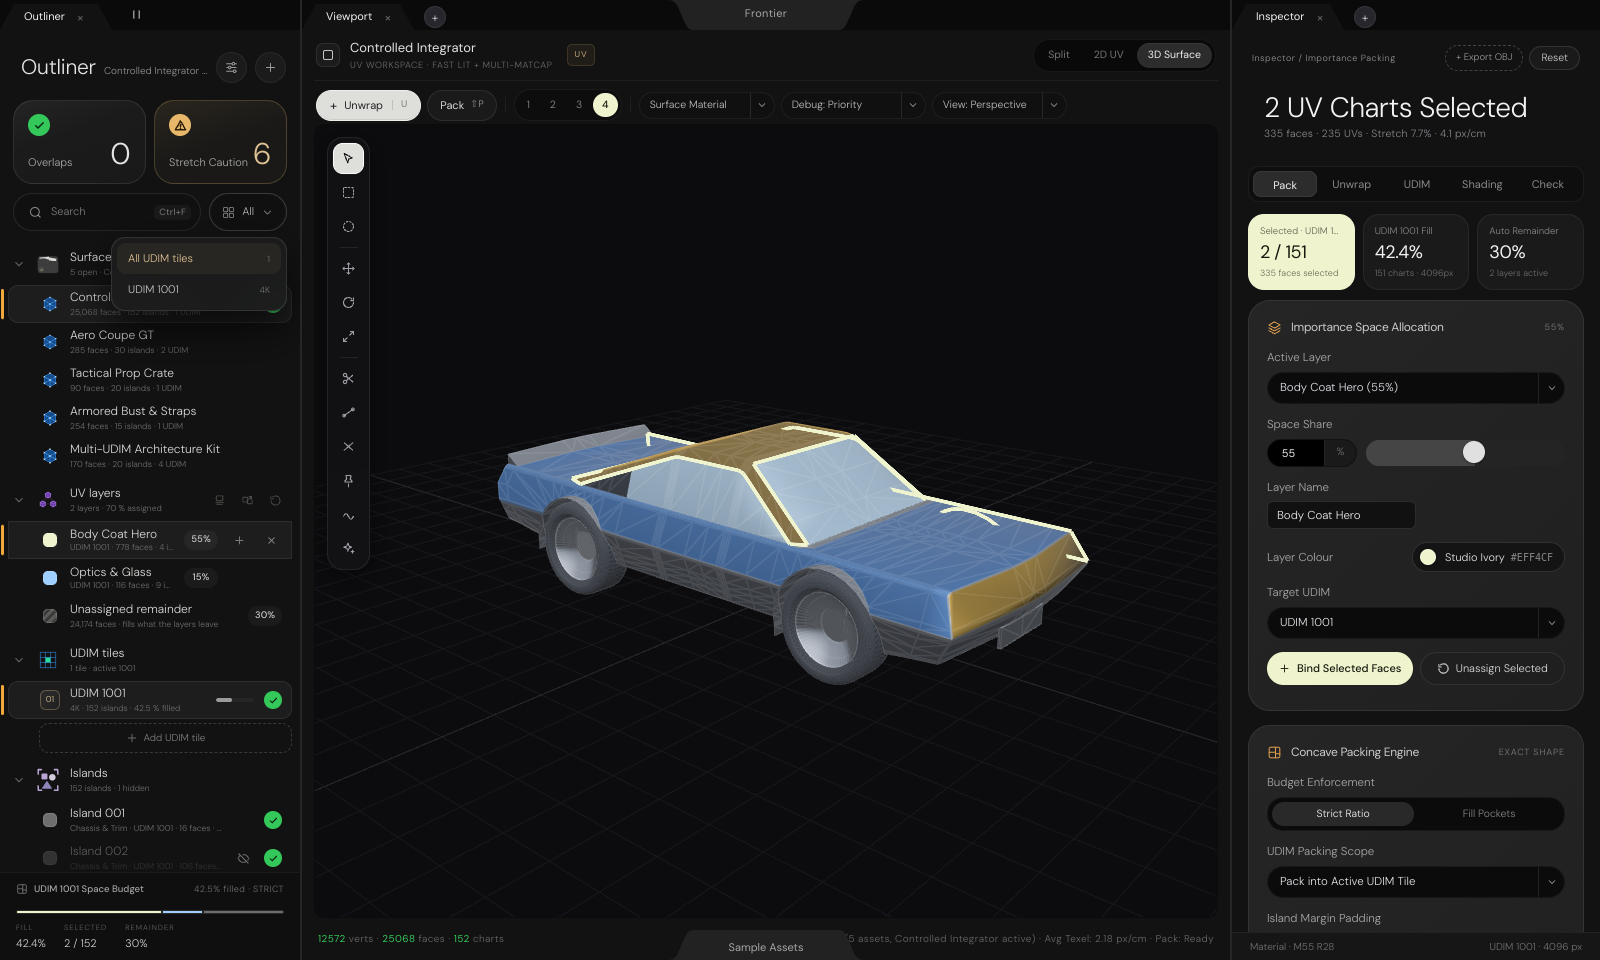
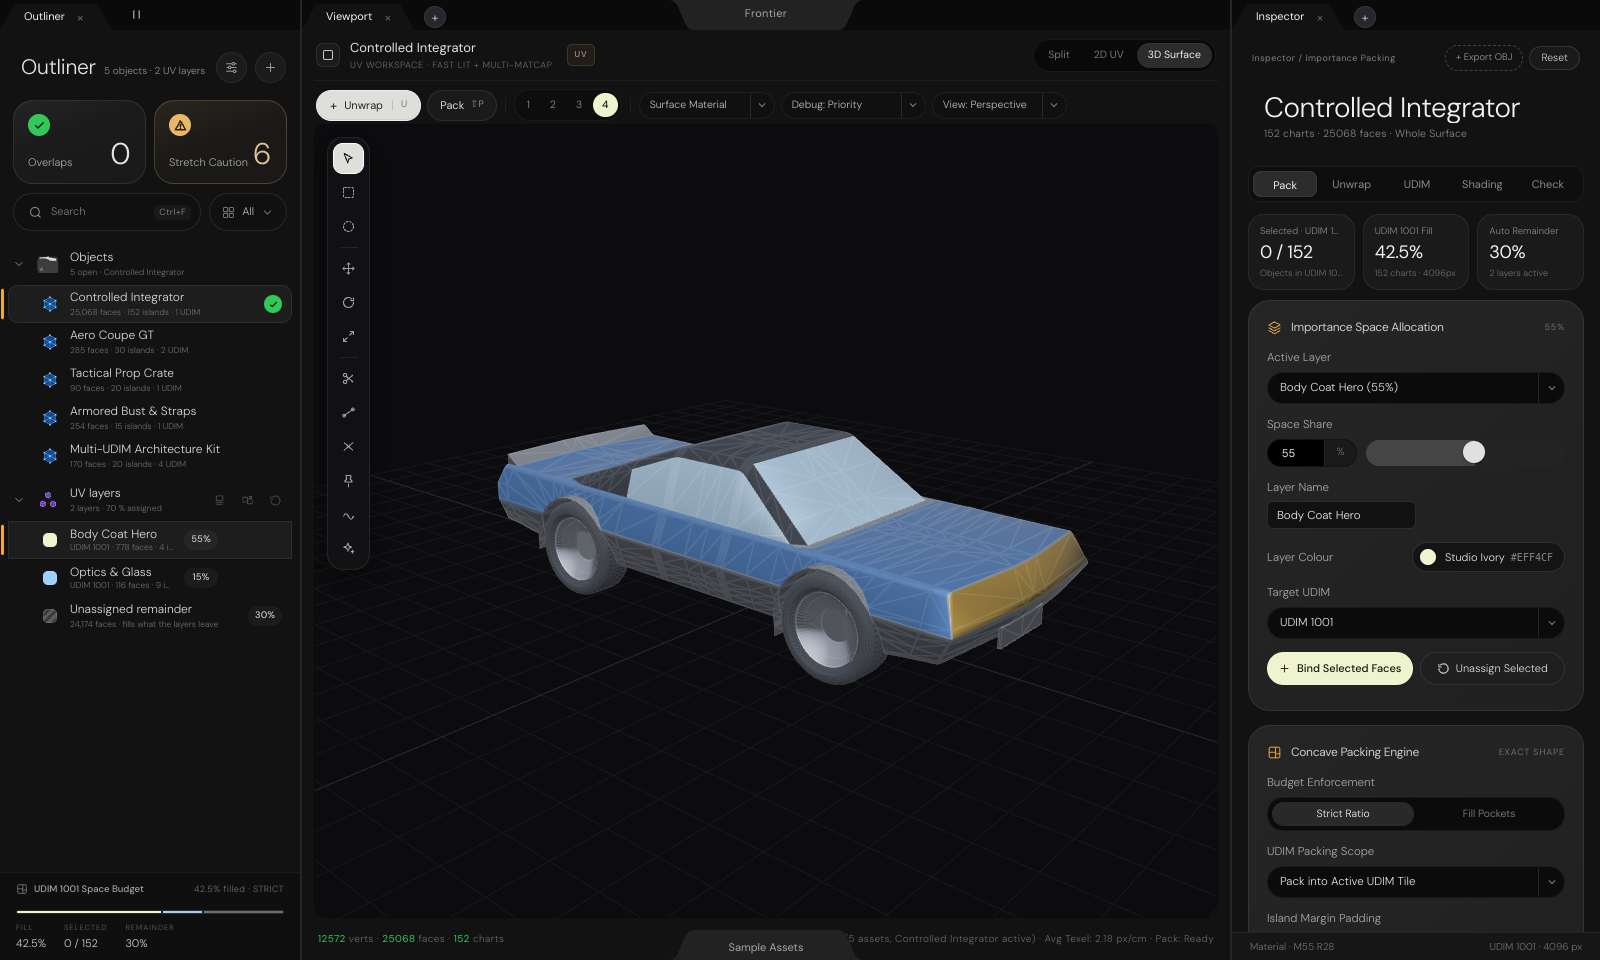
UV Editor Outliner: only Objects and UV layers
Islands are never listed (1000+ per object, many just small faces) and
the UDIM tiles group is dropped (filter dropdown + Inspector UDIM tab).
Surfaces renamed to Objects; unused island/tile styles removed;
validation asserts the tree does not list islands or tiles.

diff --git a/Experimental/UVEditor/UVEditor.js b/Experimental/UVEditor/UVEditor.js
@@ -789,7 +789,7 @@ function UpdateHeaderAndHud(Doc)
     if (OverlapCard) OverlapCard.classList.toggle('has-error', OverlapMetric > 0 || ErrorCharts > 0);
 
     const NodeSummary = document.getElementById('pz-outliner-node-summary');
-    if (NodeSummary) NodeSummary.textContent = `${Doc.name} · ${Doc.islands.length} islands`;
+    if (NodeSummary) NodeSummary.textContent = `${StudioState.documents.length} objects · ${Doc.importanceGroups.length} UV layers`;
 
     const ActiveTile = Doc.udimTiles.find(T => T.id === Doc.activeUdim) || Doc.udimTiles[0];
     const ResK = ActiveTile ? (ActiveTile.resolution >= 1024 ? `${ActiveTile.resolution / 1024}K` : `${ActiveTile.resolution}px`) : '2K';
@@ -878,7 +878,7 @@ function FrameFaceGroupRefBounds(Doc, FaceRef)
     if (Number.isFinite(MinU)) Canvas2D.FrameBounds(MinU, MinV, MaxU, MaxV, 0.18);
 }
 
-// Outliner selection marks without a rebuild: layer rows (active layer or fully selected) and island rows.
+// Outliner selection marks without a rebuild: layer rows (active layer or fully selected).
 function RefreshOutlinerSelection(Doc)
 {
     const FilterUdimNum = StudioState.udimFilter === 'all' ? null : Number(StudioState.udimFilter);
@@ -888,13 +888,11 @@ function RefreshOutlinerSelection(Doc)
         const Ref = Doc.surface.GetLayerFaceRef(Lid === '__unassigned__' ? null : Lid, Doc.islands, FilterUdimNum);
         Card.classList.toggle('selected', (Doc.activeLayerId === Lid) || IsFaceGroupRefSelected(Doc.surface, Ref));
     }
-    const Sel = Doc.surface.selectedIslands;
-    for (const Row of document.querySelectorAll('#outliner-list [data-island]')) Row.classList.toggle('on', Sel.has(Number(Row.dataset.island)));
 }
 
-// Outliner tree state: collapsed groups and how many island rows are listed.
-const OutlinerView = { shut: new Set(), islandLimit: 60 };
-const OL_GROUPS = ['surfaces', 'layers', 'tiles', 'islands'];
+// Outliner tree state: collapsed groups.
+const OutlinerView = { shut: new Set() };
+const OL_GROUPS = ['objects', 'layers'];
 
 function ActivateDocument(Doc)
 {
@@ -917,7 +915,7 @@ function RenderOutliner(Doc)
     const GrpSig = Doc.importanceGroups.map(G => `${G.id}:${G.name}:${G.targetPercent}:${G.color}:${G.udimTarget || 'auto'}`).join(';');
     const TileSig = Doc.udimTiles.map(T => `${T.id}:${T.resolution}`).join(',');
     const DocSig = StudioState.documents.map(D => `${D.id}:${D.name}`).join(',');
-    const ViewSig = `${[...OutlinerView.shut].join(',')}|${OutlinerView.islandLimit}|${Doc.activeUdim}|${Doc.diagnostics?.overlapCount ?? 0}|${Doc.surface.hiddenIslands.size}|${Doc.surface.pinned.size}`;
+    const ViewSig = `${[...OutlinerView.shut].join(',')}|${Doc.activeUdim}`;
     const OutlinerSig = `${Doc.id}|${DocSig}|${StudioState.udimFilter}|${StudioState.searchQuery.trim()}|${RefCache?.sig || ''}|${GrpSig}|${TileSig}|${ViewSig}`;
     if (_lastOutlinerSig === OutlinerSig) { RefreshOutlinerSelection(Doc); return; }
     _lastOutlinerSig = OutlinerSig;
@@ -950,13 +948,13 @@ function RenderOutliner(Doc)
     };
     const Empty = (Text) => Construct('div', 'tree-empty', Text);
 
-    // 1. Surfaces: every open document; the active one carries the check.
+    // 1. Objects: every open object; the active one carries the check.
     const DocRows = StudioState.documents.filter(D => !Query || D.name.toLowerCase().includes(Query)).map(D =>
     {
         const IsActive = D.id === Doc.id;
         const Row = Construct('div', `tr${IsActive ? ' on' : ''}`, [Icon('editor-mesh'), Text(D.name, `${D.surface.faces.length.toLocaleString()} faces · ${(D.islands?.length ?? 0)} islands · ${D.udimTiles.length} UDIM`), IsActive ? Mark('ok', 'Check') : null]);
         Row.dataset.doc = D.id;
-        Row.title = IsActive ? 'Active surface' : `Switch to ${D.name}`;
+        Row.title = IsActive ? 'Active object' : `Switch to ${D.name}`;
         if (!IsActive) Row.addEventListener('click', () => ActivateDocument(D));
         return Row;
     });
@@ -1066,101 +1064,11 @@ function RenderOutliner(Doc)
         ActBtn('Reset', 'Remove the selected faces from their layer', () => AssignSelectedToGroup(null))
     ];
 
-    // 3. UDIM tiles: resolution, islands and fill; click makes the tile active and frames it.
-    const TileRows = [...Doc.udimTiles].sort((A, B) => A.id - B.id).filter(T => !Query || `udim ${T.id}`.includes(Query)).map(T =>
-    {
-        const Totals = RefCache?.udimTotals?.get(T.id) || { islands: 0, uvArea: 0 };
-        const Fill = Totals.uvArea * 100, IsActive = T.id === Doc.activeUdim;
-        const Row = Construct('div', `tr tile-row${IsActive ? ' on' : ''}`, [
-            Construct('span', 'tile-chip', String(T.id).slice(-2)),
-            Text(`UDIM ${T.id}`, `${FormatTileRes(T.resolution)} · ${Totals.islands} islands · ${Fill.toFixed(1)} % filled`),
-            Construct('span', `tile-fill${Fill > 100 ? ' over' : ''}`, Construct('i')),
-            IsActive ? Mark('ok', 'Check') : Mark('idle')
-        ]);
-        Row.querySelector('.tile-fill i').style.width = `${Math.min(100, Fill).toFixed(1)}%`;
-        Row.addEventListener('click', () =>
-        {
-            Doc.activeUdim = T.id;
-            const O = UdimOrigin(T.id);
-            Canvas2D.FrameBounds(O.u, O.v, O.u + 1, O.v + 1, 0.14);
-            SyncAllViews(true);
-        });
-        return Row;
-    });
-    const AddTile = Construct('button', 'tree-more', [ConstructGlyph('Plus'), Construct('span', null, 'Add UDIM tile')]);
-    AddTile.type = 'button';
-    AddTile.addEventListener('click', () => document.getElementById('add-udim-quick').click());
-    if (!Query) TileRows.push(AddTile);
-
-    // 4. Islands: layer colour, health mark and visibility; click selects, double-click frames.
-    const GroupById = new Map(Doc.importanceGroups.map(G => [G.id, G]));
-    const Islands = Doc.islands.filter(Isl =>
-    {
-        if (FilterUdimNum !== null && Isl.udimTile !== FilterUdimNum) return false;
-        if (!Query) return true;
-        return `island ${String(Isl.id + 1).padStart(3, '0')} ${Isl.name || ''} ${Isl.materialName || ''}`.toLowerCase().includes(Query);
-    });
-    const Sel = Doc.surface.selectedIslands;
-    const HealthMark = { error: ['bad', 'Alert', 'Overlapping or flipped faces'], caution: ['warn', 'Alert', 'High angle stretch'], pinned: ['lock', 'Pin', 'Has pinned UVs'], ok: ['ok', 'Check', 'Clean'] };
-    // Direct by id / stable key: the surface's SelectIsland(s) / SetIslandHidden also match ids against stable keys
-    // (first face indices), which can pick a second island whose first face number equals the id.
-    const PickIsland = (Isl, Additive) =>
-    {
-        const S = Doc.surface;
-        if (!Additive) S.ClearSelection();
-        if (Additive && S.selectedIslands.has(Isl.id)) S.selectedIslands.delete(Isl.id);
-        else S.selectedIslands.add(Isl.id);
-        S.SyncSelectionsFromMode('island', Doc.islands);
-        S.activeIsland = Isl.id;
-    };
-    const IslandRows = Islands.slice(0, OutlinerView.islandLimit).map(Isl =>
-    {
-        const Grp = GroupById.get(Isl.importanceGroupId);
-        const Health = HealthMark[ClassifyIslandHealth(Doc, Isl)] || HealthMark.ok;
-        const Swatch = Construct('span', 'swatch');
-        Swatch.style.background = Grp?.color || '#6e6e6e';
-        const MarkEl = Mark(Health[0], Health[1]);
-        MarkEl.title = Health[2];
-        const Row = Construct('div', `tr${Sel.has(Isl.id) ? ' on' : ''}${Isl.hidden ? ' hidden' : ''}`, [
-            Swatch,
-            Text(`Island ${String(Isl.id + 1).padStart(3, '0')}`, `${Isl.name ? `${Isl.name} · ` : ''}UDIM ${Isl.udimTile} · ${Isl.faceIndices.length} faces · ${(Isl.texelDensity ?? 0).toFixed(1)} px/cm`),
-            ActBtn(Isl.hidden ? 'EyeOff' : 'Eye', Isl.hidden ? 'Show island' : 'Hide island', () =>
-            {
-                if (Isl.hidden) Doc.surface.hiddenIslands.delete(Isl.stableKey);
-                else Doc.surface.hiddenIslands.add(Isl.stableKey);
-                _lastOutlinerSig = null;
-                SyncAllViews(true);
-            }, ' eye'),
-            MarkEl
-        ]);
-        Row.dataset.island = Isl.id;
-        Row.addEventListener('click', E =>
-        {
-            PickIsland(Isl, E.shiftKey || E.ctrlKey || E.metaKey);
-            FastSyncSelectionViews(Doc, true);
-        });
-        Row.addEventListener('dblclick', () =>
-        {
-            PickIsland(Isl, false);
-            FrameFaceGroupRefBounds(Doc, { islandCount: 1, islandIds: [Isl.id] });
-            FastSyncSelectionViews(Doc, true);
-        });
-        return Row;
-    });
-    if (Islands.length > OutlinerView.islandLimit)
-    {
-        const More = Construct('button', 'tree-more', `Show ${Math.min(100, Islands.length - OutlinerView.islandLimit)} more of ${Islands.length - OutlinerView.islandLimit}`);
-        More.type = 'button';
-        More.addEventListener('click', () => { OutlinerView.islandLimit += 100; Rerender(); });
-        IslandRows.push(More);
-    }
-    const HiddenCount = Doc.surface.hiddenIslands.size;
-
+    // Islands are deliberately not listed: a surface can have 1000+ of them (many just small faces). They are picked in
+    // the viewport and summarised by the issue tiles and the status strip instead.
     Container.append(
-        Group('surfaces', 'folder-scene', 'Surfaces', `${StudioState.documents.length} open · ${Doc.name}`, DocRows.length ? DocRows : [Empty('No surfaces match')]),
-        Group('layers', 'editor-collection', 'UV layers', `${Doc.importanceGroups.length} layers · ${Math.min(100, ExplicitSum).toFixed(0)} % assigned`, LayerRows.length ? LayerRows : [Empty('No layers match')], LayerTools),
-        Group('tiles', 'editor-grid', 'UDIM tiles', `${Doc.udimTiles.length} tile${Doc.udimTiles.length === 1 ? '' : 's'} · active ${Doc.activeUdim}`, TileRows.length ? TileRows : [Empty('No tiles match')]),
-        Group('islands', 'collection-bracketed-objects', 'Islands', `${Doc.islands.length} islands${HiddenCount ? ` · ${HiddenCount} hidden` : ''}${Islands.length !== Doc.islands.length ? ` · showing ${Islands.length}` : ''}`, IslandRows.length ? IslandRows : [Empty('No islands match')])
+        Group('objects', 'folder-scene', 'Objects', `${StudioState.documents.length} open · ${Doc.name}`, DocRows.length ? DocRows : [Empty('No objects match')]),
+        Group('layers', 'editor-collection', 'UV layers', `${Doc.importanceGroups.length} layers · ${Math.min(100, ExplicitSum).toFixed(0)} % assigned`, LayerRows.length ? LayerRows : [Empty('No layers match')], LayerTools)
     );
 }
 

diff --git a/Experimental/UVEditor/Outliner.css b/Experimental/UVEditor/Outliner.css
@@ -97,22 +97,11 @@
 #left-panel .tr-act:hover { background: #ffffff10; color: var(--ol-ink); }
 #left-panel .tr-act.danger:hover { background: #f04d3d22; color: #f3a191; }
 #left-panel .tg-tools .tr-act { opacity: 1; width: 26px; height: 26px; }
-#left-panel .tr:hover .tr-act, #left-panel .tr.on .tr-act, #left-panel .tr.selected .tr-act, #left-panel .tr.hidden .tr-act.eye { opacity: 1; }
-#left-panel .tr.hidden .tr-text, #left-panel .tr.hidden .swatch { opacity: .35; }
 #left-panel .tr-mark { width: 18px; height: 18px; border-radius: 50%; flex: none; display: grid; place-items: center; }
 #left-panel .tr-mark svg { width: 11px; height: 11px; stroke-width: 2.6; }
 #left-panel .tr-mark.ok { background: var(--ol-green); color: #0b2412; }
-#left-panel .tr-mark.warn { background: var(--ol-amber); color: #2a1d06; }
-#left-panel .tr-mark.bad { background: var(--ol-red); color: #2a0905; }
-#left-panel .tr-mark.lock { background: #2a2620; color: var(--ol-amber-ink); }
-#left-panel .tr-mark.lock svg { stroke-width: 1.8; }
 #left-panel .tr-mark.idle { background: #262626; }
 #left-panel .tr-mark.idle::after { content: ''; width: 6px; height: 6px; border-radius: 50%; background: #5a5a58; }
-#left-panel .tile-chip { width: 20px; height: 20px; flex: none; border-radius: 6px; display: grid; place-items: center; font-size: 8.5px; color: #cfcfcd; background: linear-gradient(135deg, #2c2c2c, #1f1f1f); box-shadow: inset 0 0 0 1px #ffffff14; font-variant-numeric: tabular-nums; }
-#left-panel .tr.on .tile-chip { color: var(--ol-amber-ink); box-shadow: inset 0 0 0 1px #bfa27a66; }
-#left-panel .tile-fill { width: 38px; height: 4px; flex: none; border-radius: 2px; background: #262626; overflow: hidden; }
-#left-panel .tile-fill i { display: block; height: 100%; border-radius: 2px; background: #9b9b99; }
-#left-panel .tile-fill.over i { background: var(--ol-red); }
 #left-panel .tree-more { display: flex; align-items: center; justify-content: center; gap: 6px; width: calc(100% - 31px); margin: 4px 0 6px 31px; height: 30px; border-radius: 10px; border: 1px dashed #383838; color: #7c7c7a; font-size: 10px; }
 #left-panel .tree-more svg { width: 12px; height: 12px; }
 #left-panel .tree-more:hover { color: var(--ol-ink); border-color: #4a4a4a; }

diff --git a/Experimental/UVEditor/index.html b/Experimental/UVEditor/index.html
@@ -4,8 +4,8 @@
 <meta charset="utf-8">
 <meta name="viewport" content="width=device-width, initial-scale=1">
 <title>Frontier · UV Workspace (Project-Zero UI)</title>
-<link rel="stylesheet" href="UVEditor.css?v=738b155">
-<link rel="stylesheet" href="Outliner.css?v=738b155">
+<link rel="stylesheet" href="UVEditor.css?v=2">
+<link rel="stylesheet" href="Outliner.css?v=2">
 <script type="importmap">
 {
   "imports": {
@@ -616,6 +616,6 @@
   </div>
 </dialog>
 
-<script type="module" src="UVEditor.js?v=738b155"></script>
+<script type="module" src="UVEditor.js?v=2"></script>
 </body>
 </html>

diff --git a/Experimental/UVEditor/README.md b/Experimental/UVEditor/README.md
@@ -41,17 +41,17 @@ in `RenderOutliner` / `RenderUdimFilterBar` in `UVEditor.js`. The viewport and t
 
 ![Outliner](Screenshots/outliner.png)
 
-- **Header**: title, active surface and island count, *collapse all groups*, and **+** (new UV layer from the selection).
+- **Header**: title, object and UV layer counts, *collapse all groups*, and **+** (new UV layer from the selection).
 - **Issue tiles**: *Overlaps* and *Stretch Caution* as large glass tiles. The mark turns red or amber when there is a problem, and a click
   selects the offending faces or islands and switches the lens.
 - **Search + UDIM filter**: one search field filters every group; the dropdown shows all tiles or a single one.
-- **Tree**, four collapsible groups:
-  - *Surfaces*: every open document (click to switch); the active one has the check.
+- **Tree**, two collapsible groups:
+  - *Objects*: every open object (click to switch); the active one has the check.
   - *UV layers*: importance layers with a colour swatch (click to recolour) and a space share, plus hover actions to add
     the selection or delete. *Unassigned remainder* takes what is left. Stack / unstack / unassign sit on the group header.
-  - *UDIM tiles*: resolution, island count and a fill bar. Click to make a tile active and frame it; *Add UDIM tile*.
-  - *Islands*: layer colour, part, UDIM, faces and texel density; a health mark (clean, stretch, overlap, pinned) and an
-    eye to hide. Click selects (Shift adds or toggles) and double-click frames. Rows load 60 at a time.
+  - Islands are deliberately **not** listed: an object can have 1000+ of them, many just small faces. Pick them in the
+    viewport; the issue tiles and the status strip summarise them. UDIM tiles are chosen in the filter dropdown and the
+    Inspector's UDIM tab.
 - **Footer**: the UDIM space budget bar above a *Fill · Selected · Remainder* status strip (each one clickable).
 
 ## Running Locally & Validation
